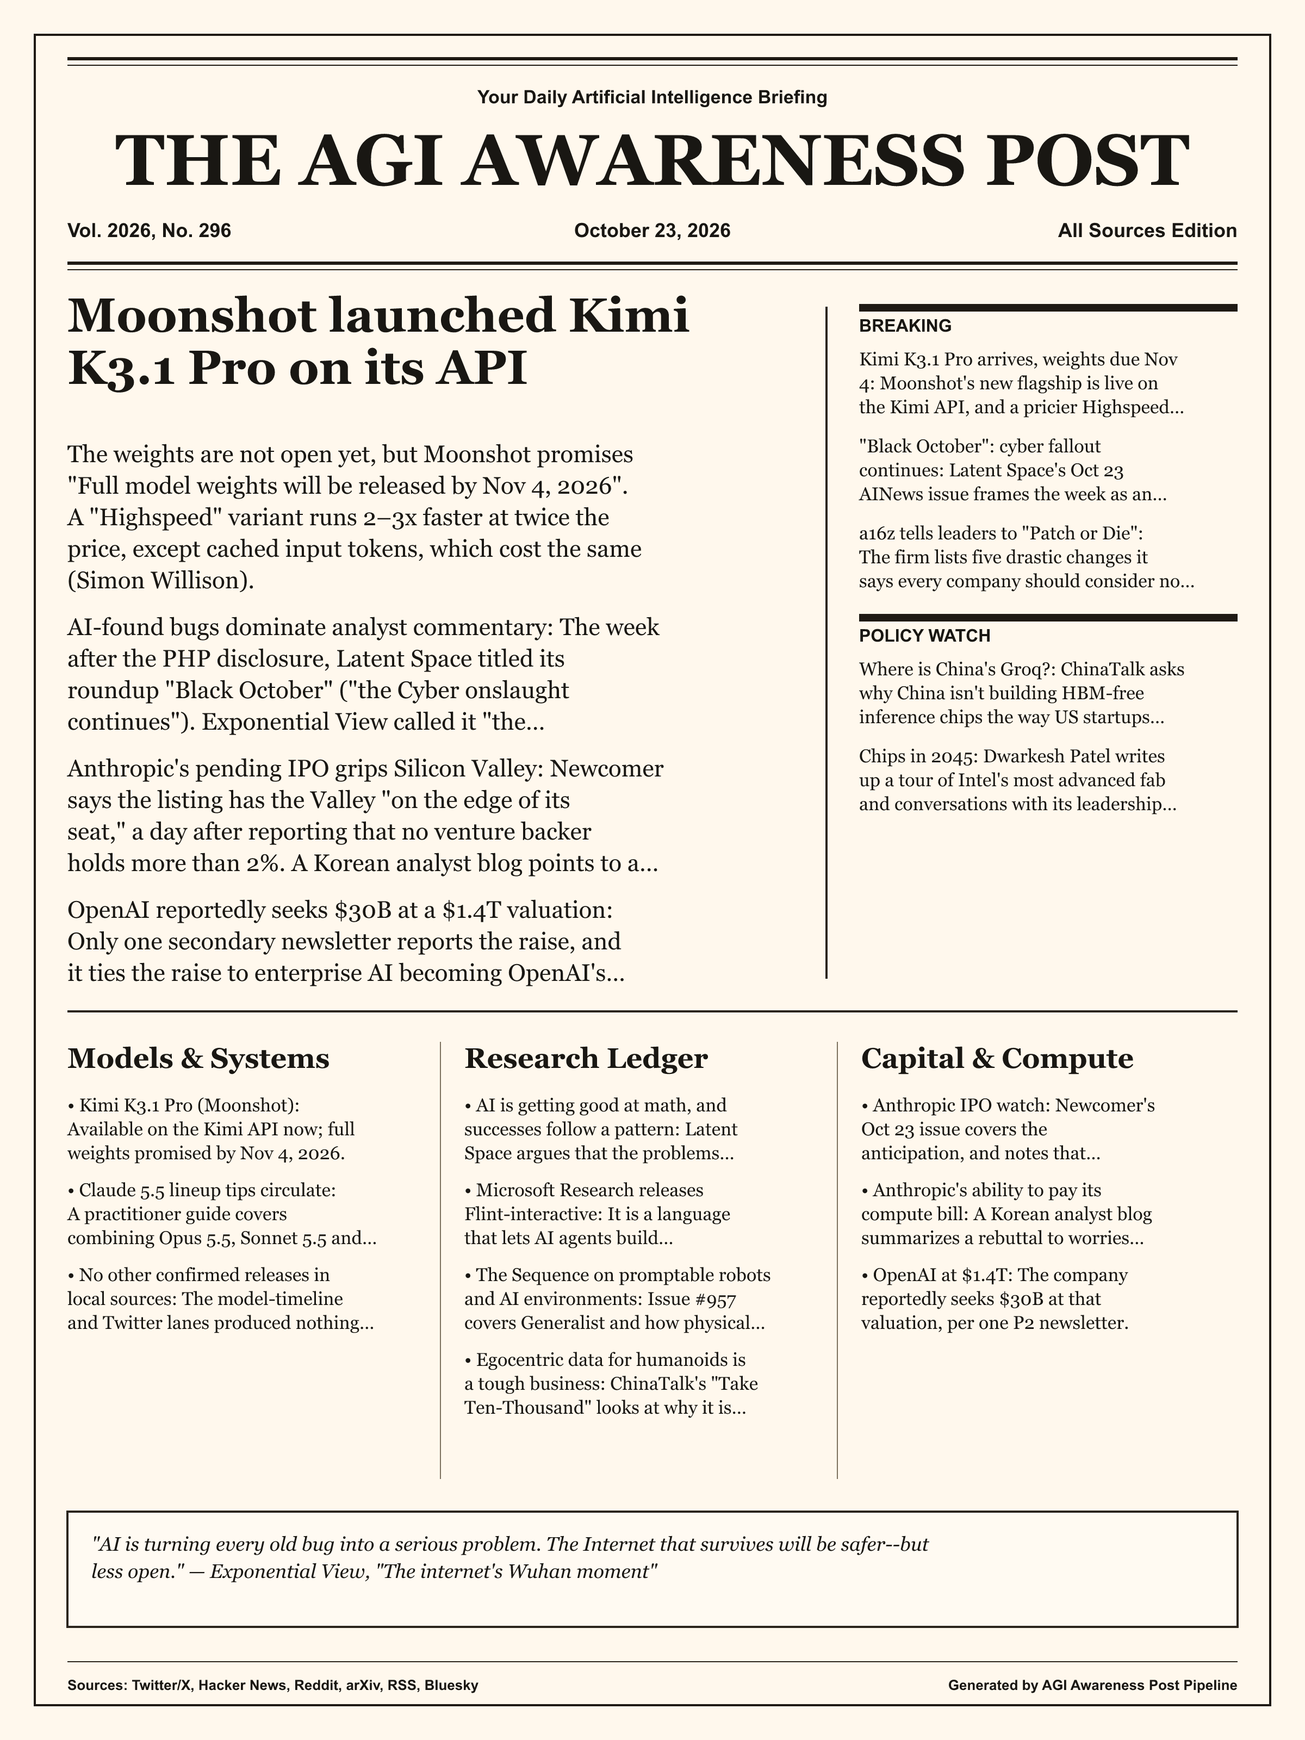
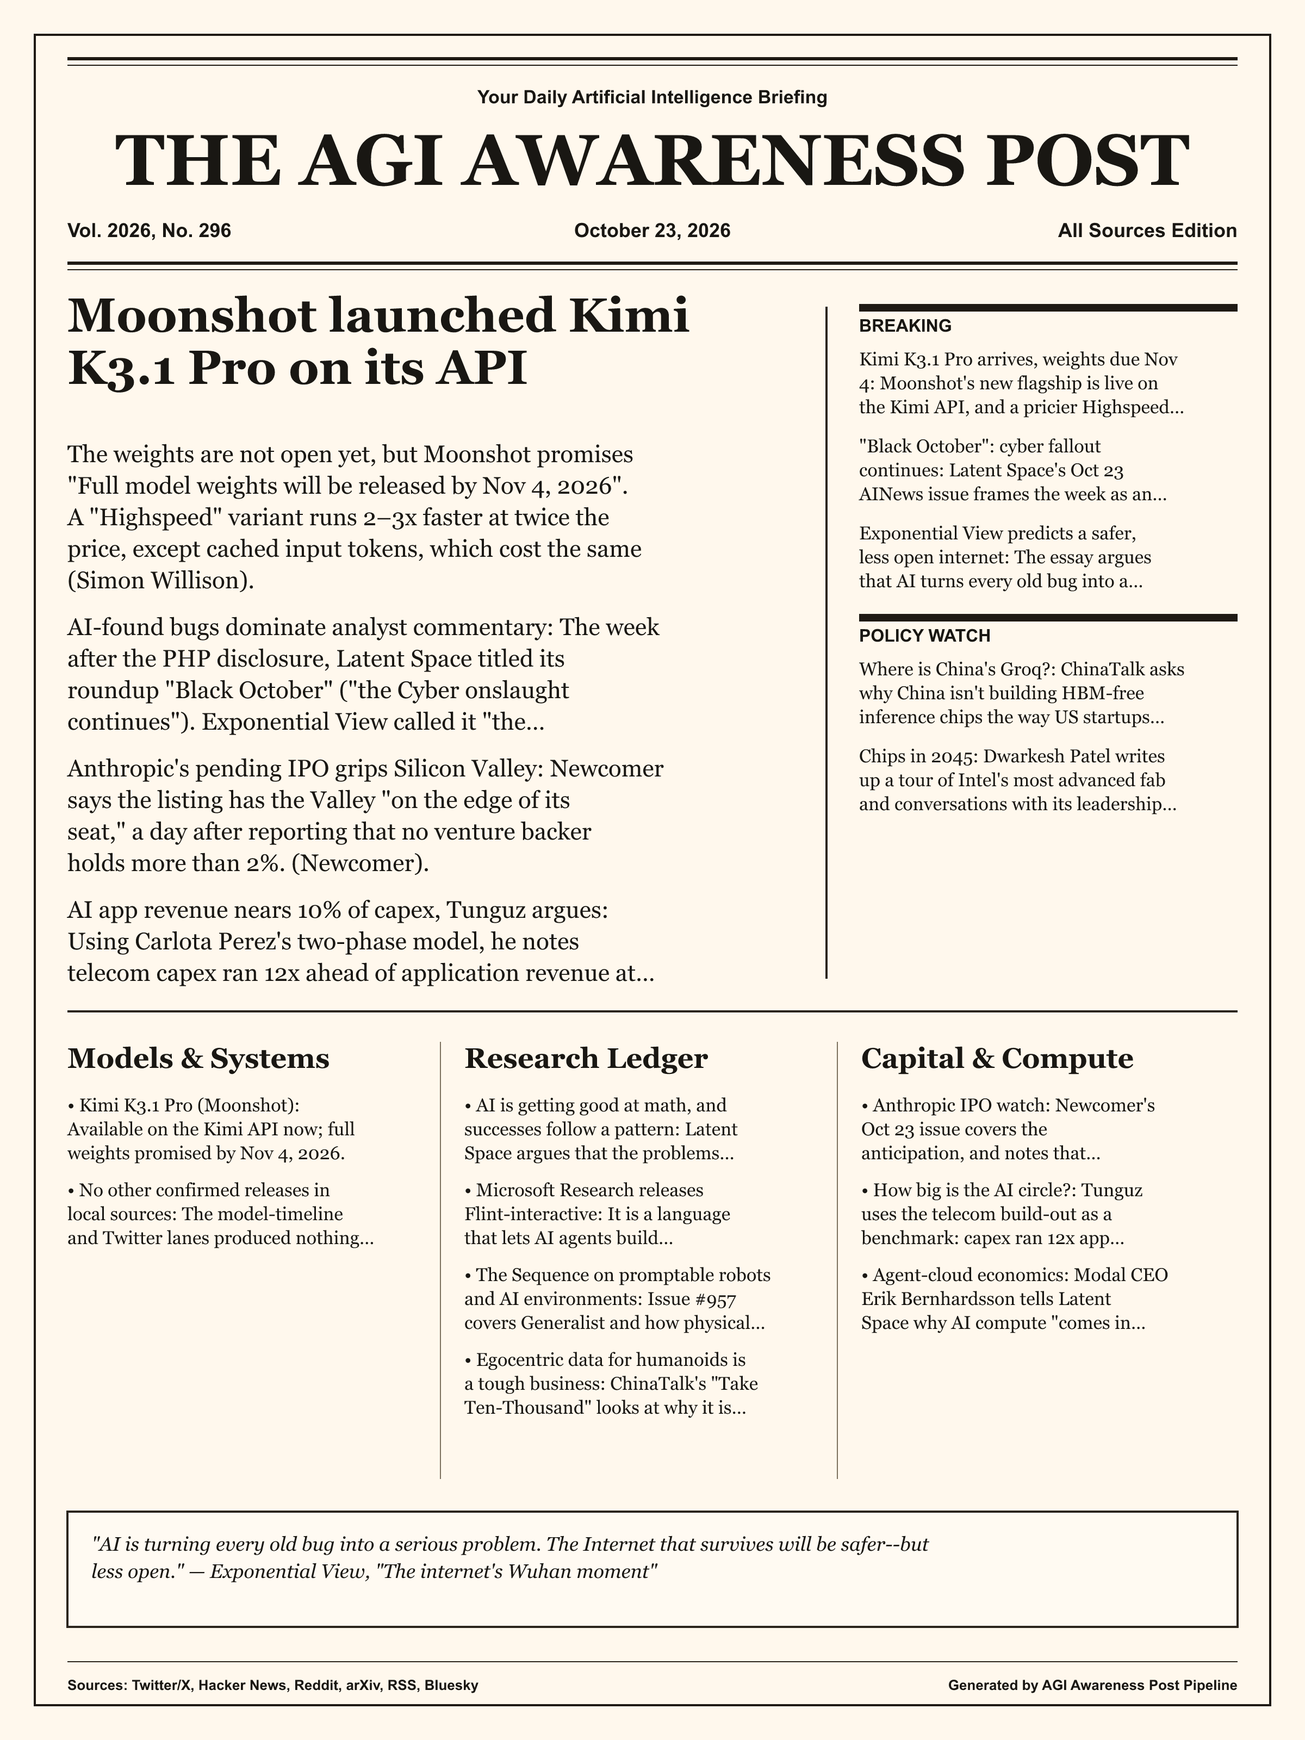
fix(digest): respect source eligibility during recovery

diff --git a/research/front-page/2026-10-23-front-page.html b/research/front-page/2026-10-23-front-page.html
@@ -3,9 +3,9 @@
 <nav class="ara-paper-index" aria-label="In this edition"><div class="ara-paper-index-title">In this edition</div><div class="ara-paper-index-links"><a class="ara-paper-index-link" href="#lead-top-story">Lead</a><a class="ara-paper-index-link" href="#briefs-stories">Stories</a><a class="ara-paper-index-link" href="#meter-signal-mix">Signals</a></div></nav>
 <section class="ara-paper-lead" id="lead-top-story"><div class="ara-paper-label">Top Story</div><button class="ara-paper-toggle" type="button" aria-expanded="true" aria-controls="lead-top-story-body"><span>Moonshot launched Kimi K3.1 Pro on its API</span><span class="ara-paper-toggle-icon" aria-hidden="true">⌄</span></button><div class="ara-paper-collapsible" id="lead-top-story-body"><p>The weights are not open yet, but Moonshot promises "Full model weights will be released by Nov 4, 2026". A "Highspeed" variant runs 2–3x faster at twice the price, except cached input tokens, which cost the same (Simon Willison).</p>
 <p>AI-found bugs dominate analyst commentary: The week after the PHP disclosure, Latent Space titled its roundup "Black October" ("the Cyber onslaught continues"). Exponential View called it "the internet's Wuhan moment," and Clouded Judgement's weekly is headlined "AI Goes Vulnerability Hunting" (Latent Space, Exponential View, Clouded Judgement).</p>
-<p>Anthropic's pending IPO grips Silicon Valley: Newcomer says the listing has the Valley "on the edge of its seat," a day after reporting that no venture backer holds more than 2%. A Korean analyst blog points to a Reuters report putting Anthropic's compute-spending commitments at $518B and argues the company can pay them (Newcomer, happy/dhgusdnd44 blog).</p>
-<p>OpenAI reportedly seeks $30B at a $1.4T valuation: Only one secondary newsletter reports the raise, and it ties the raise to enterprise AI becoming OpenAI's key growth driver. Treat it as unconfirmed until there is a primary report (AI Disruption).</p></div></section>
-<section class="ara-paper-briefs" id="briefs-stories" data-columns="2"><h3 class="ara-paper-section-title">Stories</h3><div class="ara-paper-brief-grid"><details class="ara-paper-brief"><summary><span class="ara-paper-brief-rank">01</span><span class="ara-paper-brief-tag">Breaking</span><span class="ara-paper-brief-headline">Kimi K3.1 Pro arrives, weights due Nov 4</span></summary></details><details class="ara-paper-brief"><summary><span class="ara-paper-brief-rank">02</span><span class="ara-paper-brief-tag">Breaking</span><span class="ara-paper-brief-headline">"Black October"</span></summary></details><details class="ara-paper-brief"><summary><span class="ara-paper-brief-rank">03</span><span class="ara-paper-brief-tag">Breaking</span><span class="ara-paper-brief-headline">a16z tells leaders to "Patch or Die"</span></summary></details><details class="ara-paper-brief"><summary><span class="ara-paper-brief-rank">04</span><span class="ara-paper-brief-tag">Models</span><span class="ara-paper-brief-headline">Kimi K3.1 Pro (Moonshot): Available on the Kimi API now</span></summary></details><details class="ara-paper-brief"><summary><span class="ara-paper-brief-rank">05</span><span class="ara-paper-brief-tag">Models</span><span class="ara-paper-brief-headline">Claude 5.5 lineup tips circulate</span></summary></details><details class="ara-paper-brief"><summary><span class="ara-paper-brief-rank">06</span><span class="ara-paper-brief-tag">Models</span><span class="ara-paper-brief-headline">No other confirmed releases in local sources</span></summary></details><details class="ara-paper-brief"><summary><span class="ara-paper-brief-rank">07</span><span class="ara-paper-brief-tag">Policy</span><span class="ara-paper-brief-headline">Where is China's Groq?</span></summary></details><details class="ara-paper-brief"><summary><span class="ara-paper-brief-rank">08</span><span class="ara-paper-brief-tag">Policy</span><span class="ara-paper-brief-headline">Chips in 2045</span></summary></details><details class="ara-paper-brief"><summary><span class="ara-paper-brief-rank">09</span><span class="ara-paper-brief-tag">Research</span><span class="ara-paper-brief-headline">AI is getting good at math, and successes follow a pattern</span></summary></details><details class="ara-paper-brief"><summary><span class="ara-paper-brief-rank">10</span><span class="ara-paper-brief-tag">Research</span><span class="ara-paper-brief-headline">Microsoft Research releases Flint-interactive</span></summary></details></div></section>
-<section class="ara-paper-meter" id="meter-signal-mix"><h3 class="ara-paper-section-title">Signal Mix</h3><div class="ara-paper-meter-row ara-paper-meter-row--hot"><div class="ara-paper-meter-label"><span>Breaking news</span><strong>3 items</strong></div><div class="ara-paper-meter-track"><span class="ara-paper-meter-fill" data-pct="75"></span></div></div><div class="ara-paper-meter-row ara-paper-meter-row--watch"><div class="ara-paper-meter-label"><span>Model releases</span><strong>3 items</strong></div><div class="ara-paper-meter-track"><span class="ara-paper-meter-fill" data-pct="75"></span></div></div><div class="ara-paper-meter-row ara-paper-meter-row--research"><div class="ara-paper-meter-label"><span>Research highlights</span><strong>4 items</strong></div><div class="ara-paper-meter-track"><span class="ara-paper-meter-fill" data-pct="80"></span></div></div><div class="ara-paper-meter-row ara-paper-meter-row--market"><div class="ara-paper-meter-label"><span>Funding and compute</span><strong>4 items</strong></div><div class="ara-paper-meter-track"><span class="ara-paper-meter-fill" data-pct="100"></span></div></div></section>
+<p>Anthropic's pending IPO grips Silicon Valley: Newcomer says the listing has the Valley "on the edge of its seat," a day after reporting that no venture backer holds more than 2%. (Newcomer).</p>
+<p>AI app revenue nears 10% of capex, Tunguz argues: Using Carlota Perez's two-phase model, he notes telecom capex ran 12x ahead of application revenue at the 2000 peak. Telecom then took seven years to push app revenue above 10% of capex, a level he says AI has now reached (Tomasz Tunguz).</p></div></section>
+<section class="ara-paper-briefs" id="briefs-stories" data-columns="2"><h3 class="ara-paper-section-title">Stories</h3><div class="ara-paper-brief-grid"><details class="ara-paper-brief"><summary><span class="ara-paper-brief-rank">01</span><span class="ara-paper-brief-tag">Breaking</span><span class="ara-paper-brief-headline">Kimi K3.1 Pro arrives, weights due Nov 4</span></summary></details><details class="ara-paper-brief"><summary><span class="ara-paper-brief-rank">02</span><span class="ara-paper-brief-tag">Breaking</span><span class="ara-paper-brief-headline">"Black October"</span></summary></details><details class="ara-paper-brief"><summary><span class="ara-paper-brief-rank">03</span><span class="ara-paper-brief-tag">Breaking</span><span class="ara-paper-brief-headline">Exponential View predicts a safer, less open internet</span></summary></details><details class="ara-paper-brief"><summary><span class="ara-paper-brief-rank">04</span><span class="ara-paper-brief-tag">Models</span><span class="ara-paper-brief-headline">Kimi K3.1 Pro (Moonshot): Available on the Kimi API now</span></summary></details><details class="ara-paper-brief"><summary><span class="ara-paper-brief-rank">05</span><span class="ara-paper-brief-tag">Models</span><span class="ara-paper-brief-headline">No other confirmed releases in local sources</span></summary></details><details class="ara-paper-brief"><summary><span class="ara-paper-brief-rank">06</span><span class="ara-paper-brief-tag">Policy</span><span class="ara-paper-brief-headline">Where is China's Groq?</span></summary></details><details class="ara-paper-brief"><summary><span class="ara-paper-brief-rank">07</span><span class="ara-paper-brief-tag">Policy</span><span class="ara-paper-brief-headline">Chips in 2045</span></summary></details><details class="ara-paper-brief"><summary><span class="ara-paper-brief-rank">08</span><span class="ara-paper-brief-tag">Research</span><span class="ara-paper-brief-headline">AI is getting good at math, and successes follow a pattern</span></summary></details><details class="ara-paper-brief"><summary><span class="ara-paper-brief-rank">09</span><span class="ara-paper-brief-tag">Research</span><span class="ara-paper-brief-headline">Microsoft Research releases Flint-interactive</span></summary></details><details class="ara-paper-brief"><summary><span class="ara-paper-brief-rank">10</span><span class="ara-paper-brief-tag">Research</span><span class="ara-paper-brief-headline">The Sequence on promptable robots and AI environments</span></summary></details></div></section>
+<section class="ara-paper-meter" id="meter-signal-mix"><h3 class="ara-paper-section-title">Signal Mix</h3><div class="ara-paper-meter-row ara-paper-meter-row--hot"><div class="ara-paper-meter-label"><span>Breaking news</span><strong>3 items</strong></div><div class="ara-paper-meter-track"><span class="ara-paper-meter-fill" data-pct="75"></span></div></div><div class="ara-paper-meter-row ara-paper-meter-row--watch"><div class="ara-paper-meter-label"><span>Model releases</span><strong>2 items</strong></div><div class="ara-paper-meter-track"><span class="ara-paper-meter-fill" data-pct="50"></span></div></div><div class="ara-paper-meter-row ara-paper-meter-row--research"><div class="ara-paper-meter-label"><span>Research highlights</span><strong>4 items</strong></div><div class="ara-paper-meter-track"><span class="ara-paper-meter-fill" data-pct="80"></span></div></div><div class="ara-paper-meter-row ara-paper-meter-row--market"><div class="ara-paper-meter-label"><span>Funding and compute</span><strong>4 items</strong></div><div class="ara-paper-meter-track"><span class="ara-paper-meter-fill" data-pct="100"></span></div></div></section>
 <blockquote class="ara-quote"><p>"AI is turning every old bug into a serious problem. The Internet that survives will be safer--but less open." — Exponential View, "The internet's Wuhan moment"</p></blockquote>
 </article>

diff --git a/research/digest/2026-10-23-digest.md b/research/digest/2026-10-23-digest.md
@@ -5,28 +5,25 @@
 > on Oct 23 recorded `no_update`. This edition therefore comes only from
 > the expert-blog lane (Oct 22–23), plus a YouTube sweep that found no
 > high-signal videos and one recent earnings filing. Treat it as an
-> analyst-commentary roundup, not a full news sweep. Funding figures below
-> come from newsletters and have not been checked against primary sources.
+> analyst-commentary roundup, not a full news sweep. Analyst estimates below
+> are attributed to their authors and have not been independently verified.
 
 ## Executive Summary
 
 - **Moonshot launched Kimi K3.1 Pro on its API**: The weights are not open yet, but Moonshot promises "Full model weights will be released by Nov 4, 2026". A "Highspeed" variant runs 2–3x faster at twice the price, except cached input tokens, which cost the same (Simon Willison).
 - **AI-found bugs dominate analyst commentary**: The week after the PHP disclosure, Latent Space titled its roundup "Black October" ("the Cyber onslaught continues"). Exponential View called it "the internet's Wuhan moment," and Clouded Judgement's weekly is headlined "AI Goes Vulnerability Hunting" (Latent Space, Exponential View, Clouded Judgement).
-- **Anthropic's pending IPO grips Silicon Valley**: Newcomer says the listing has the Valley "on the edge of its seat," a day after reporting that no venture backer holds more than 2%. A Korean analyst blog points to a Reuters report putting Anthropic's compute-spending commitments at $518B and argues the company can pay them (Newcomer, happy/dhgusdnd44 blog).
-- **OpenAI reportedly seeks $30B at a $1.4T valuation**: Only one secondary newsletter reports the raise, and it ties the raise to enterprise AI becoming OpenAI's key growth driver. Treat it as unconfirmed until there is a primary report (AI Disruption).
+- **Anthropic's pending IPO grips Silicon Valley**: Newcomer says the listing has the Valley "on the edge of its seat," a day after reporting that no venture backer holds more than 2%. (Newcomer).
 - **AI app revenue nears 10% of capex, Tunguz argues**: Using Carlota Perez's two-phase model, he notes telecom capex ran 12x ahead of application revenue at the 2000 peak. Telecom then took seven years to push app revenue above 10% of capex, a level he says AI has now reached (Tomasz Tunguz).
 
 ## Breaking News
 
 - **Kimi K3.1 Pro arrives, weights due Nov 4**: Moonshot's new flagship is live on the Kimi API, and a pricier Highspeed variant runs 2–3x faster. If the open-weight release lands on schedule, it would be one of the strongest open models available (Simon Willison).
 - **"Black October": cyber fallout continues**: Latent Space's Oct 23 AINews issue frames the week as an ongoing "Cyber onslaught." The day before, its issue covered OpenAI's Patch the Planet as one of two parties that found the PHP flaws, which it says affect "70% of the web" (Latent Space).
-- **a16z tells leaders to "Patch or Die"**: The firm lists five drastic changes it says every company should consider now that AI finds old vulnerabilities faster than teams can patch them. This is a VC thesis piece, not a primary source (a16z).
 - **Exponential View predicts a safer, less open internet**: The essay argues that AI turns every old bug into a serious problem, and that the internet that survives will trade openness for security (Exponential View).
 
 ## Model Releases & Updates
 
 - **Kimi K3.1 Pro (Moonshot)**: Available on the Kimi API now; full weights promised by Nov 4, 2026. The Highspeed tier is 2–3x faster at double the price, except cached input tokens, which cost the same (Simon Willison).
-- **Claude 5.5 lineup tips circulate**: A practitioner guide covers combining Opus 5.5, Sonnet 5.5 and Haiku 5.5 through Dynamic Workflows to stretch a $20 Claude subscription. It is a low-priority newsletter, not a release (AI Disruption).
 - **No other confirmed releases in local sources**: The model-timeline and Twitter lanes produced nothing for this window, so smaller releases from Oct 22–23 are likely missing.
 
 ## Research Highlights
@@ -43,13 +40,10 @@ _No arXiv lane output for this window. Research coverage below comes from expert
 _No Hacker News, Reddit or Bluesky lane output for this window. Community coverage is effectively missing._
 
 - **A pelican on a bicycle in a rock video**: Simon Willison spotted his long-running "pelican riding a bicycle" LLM benchmark prompt at 00:44 in De Staat's new "FREEDOM" music video, via a Hacker News tip. The visual effects are credited to Matties Grooten (Simon Willison).
-- **Opus 6 rumor videos are trending**: YouTube's watchlist includes "Claude Opus 6 Leaks?" speculation. None of the 89 videos collected passed the high-signal filter, and nothing confirms an Opus 6 (YouTube lane).
 
 ## Funding & Business
 
 - **Anthropic IPO watch**: Newcomer's Oct 23 issue covers the anticipation, and notes that SemiAnalysis is "tak[ing] heat over data center figures." It also reports that a16z topped a well-regarded ranking of AI VCs (Newcomer).
-- **Anthropic's ability to pay its compute bill**: A Korean analyst blog summarizes a rebuttal to worries over a reported $518B in compute commitments. It argues the spending is spread over many years and has to be broken down before judging solvency (happy/dhgusdnd44 blog, citing Reuters and Substack; secondary).
-- **OpenAI at $1.4T**: The company reportedly seeks $30B at that valuation, per one P2 newsletter. It is unconfirmed (AI Disruption).
 - **How big is the AI circle?**: Tunguz uses the telecom build-out as a benchmark: capex ran 12x app revenue at the peak, app revenue took 7 years to pass 10% of capex and 10 years to reach 48% (Tomasz Tunguz; author's estimates).
 - **Agent-cloud economics**: Modal CEO Erik Bernhardsson tells Latent Space why AI compute "comes in rectangles," covering elastic GPUs, fast-growing demand for sandboxes, and the economics of serving agents (Latent Space).
 - **AI-era sales teams run smaller**: Granola's sales VP says revenue per rep multiplies with AI, so teams shrink and comp plans move from annual to quarterly (Tomasz Tunguz).
@@ -66,7 +60,6 @@ _No RSS or Twitter policy coverage for this window._
 
 - **LangChain on retrieval for agents**: A post on the retrieval techniques its Deep Agents harness uses to avoid clumsy searches, oversized results and stale data (LangChain Blog).
 - **Flint-interactive**: Microsoft Research's interactive-visualization language for agents, covered above (Microsoft Research).
-- **Claude in Slack for bug fixing**: A practical guide covering setup, permissions, context-aware PRs and common pitfalls (AI Disruption).
 
 ## Quote of the Day
 
@@ -81,7 +74,7 @@ _No RSS or Twitter policy coverage for this window._
 - Reddit: 0 posts (lane has published nothing since Oct 21)
 - arXiv: 0 papers (lane has published nothing since Oct 21)
 - RSS: 0 articles (lane has published nothing since Oct 21)
-- Expert Blogs: 19 posts (Oct 23) + 28 posts (Oct 22); ~20 used after dropping items already in the Oct 22 digest and VC portfolio announcements
+- Expert Blogs: 47 entries inspected across Oct 22–23; 13 of 28 (Oct 22) and 10 of 19 (Oct 23) were digest-eligible. This edition uses 19 distinct eligible posts after excluding already-covered items; watch-list posts were not used.
 - YouTube: 0 videos passed the high-signal filter (89 collected)
 - Earnings: 1 issuer earnings report (META FY26Q3, filed Oct 21)
 - MCP Search: not configured for this run. Synthesized from local sources only.

diff --git a/research/front-page/2026-10-23-front-page.ara.md b/research/front-page/2026-10-23-front-page.ara.md
@@ -22,9 +22,9 @@ The weights are not open yet, but Moonshot promises "Full model weights will be 
 
 AI-found bugs dominate analyst commentary: The week after the PHP disclosure, Latent Space titled its roundup "Black October" ("the Cyber onslaught continues"). Exponential View called it "the internet's Wuhan moment," and Clouded Judgement's weekly is headlined "AI Goes Vulnerability Hunting" (Latent Space, Exponential View, Clouded Judgement).
 
-Anthropic's pending IPO grips Silicon Valley: Newcomer says the listing has the Valley "on the edge of its seat," a day after reporting that no venture backer holds more than 2%. A Korean analyst blog points to a Reuters report putting Anthropic's compute-spending commitments at $518B and argues the company can pay them (Newcomer, happy/dhgusdnd44 blog).
+Anthropic's pending IPO grips Silicon Valley: Newcomer says the listing has the Valley "on the edge of its seat," a day after reporting that no venture backer holds more than 2%. (Newcomer).
 
-OpenAI reportedly seeks $30B at a $1.4T valuation: Only one secondary newsletter reports the raise, and it ties the raise to enterprise AI becoming OpenAI's key growth driver. Treat it as unconfirmed until there is a primary report (AI Disruption).
+AI app revenue nears 10% of capex, Tunguz argues: Using Carlota Perez's two-phase model, he notes telecom capex ran 12x ahead of application revenue at the 2000 peak. Telecom then took seven years to push app revenue above 10% of capex, a level he says AI has now reached (Tomasz Tunguz).
 :::
 
 :::briefs(id="briefs-stories", title="Stories", columns=2)
@@ -32,11 +32,9 @@ OpenAI reportedly seeks $30B at a $1.4T valuation: Only one secondary newsletter
   tag: "Breaking"
 - headline: "\"Black October\""
   tag: "Breaking"
-- headline: "a16z tells leaders to \"Patch or Die\""
+- headline: "Exponential View predicts a safer, less open internet"
   tag: "Breaking"
 - headline: "Kimi K3.1 Pro (Moonshot): Available on the Kimi API now"
-  tag: "Models"
-- headline: "Claude 5.5 lineup tips circulate"
   tag: "Models"
 - headline: "No other confirmed releases in local sources"
   tag: "Models"
@@ -48,6 +46,8 @@ OpenAI reportedly seeks $30B at a $1.4T valuation: Only one secondary newsletter
   tag: "Research"
 - headline: "Microsoft Research releases Flint-interactive"
   tag: "Research"
+- headline: "The Sequence on promptable robots and AI environments"
+  tag: "Research"
 :::
 
 :::news-meter(id="meter-signal-mix", title="Signal Mix")
@@ -56,8 +56,8 @@ OpenAI reportedly seeks $30B at a $1.4T valuation: Only one secondary newsletter
   display: "3 items"
   tone: hot
 - label: "Model releases"
-  value: 75
-  display: "3 items"
+  value: 50
+  display: "2 items"
   tone: watch
 - label: "Research highlights"
   value: 80
